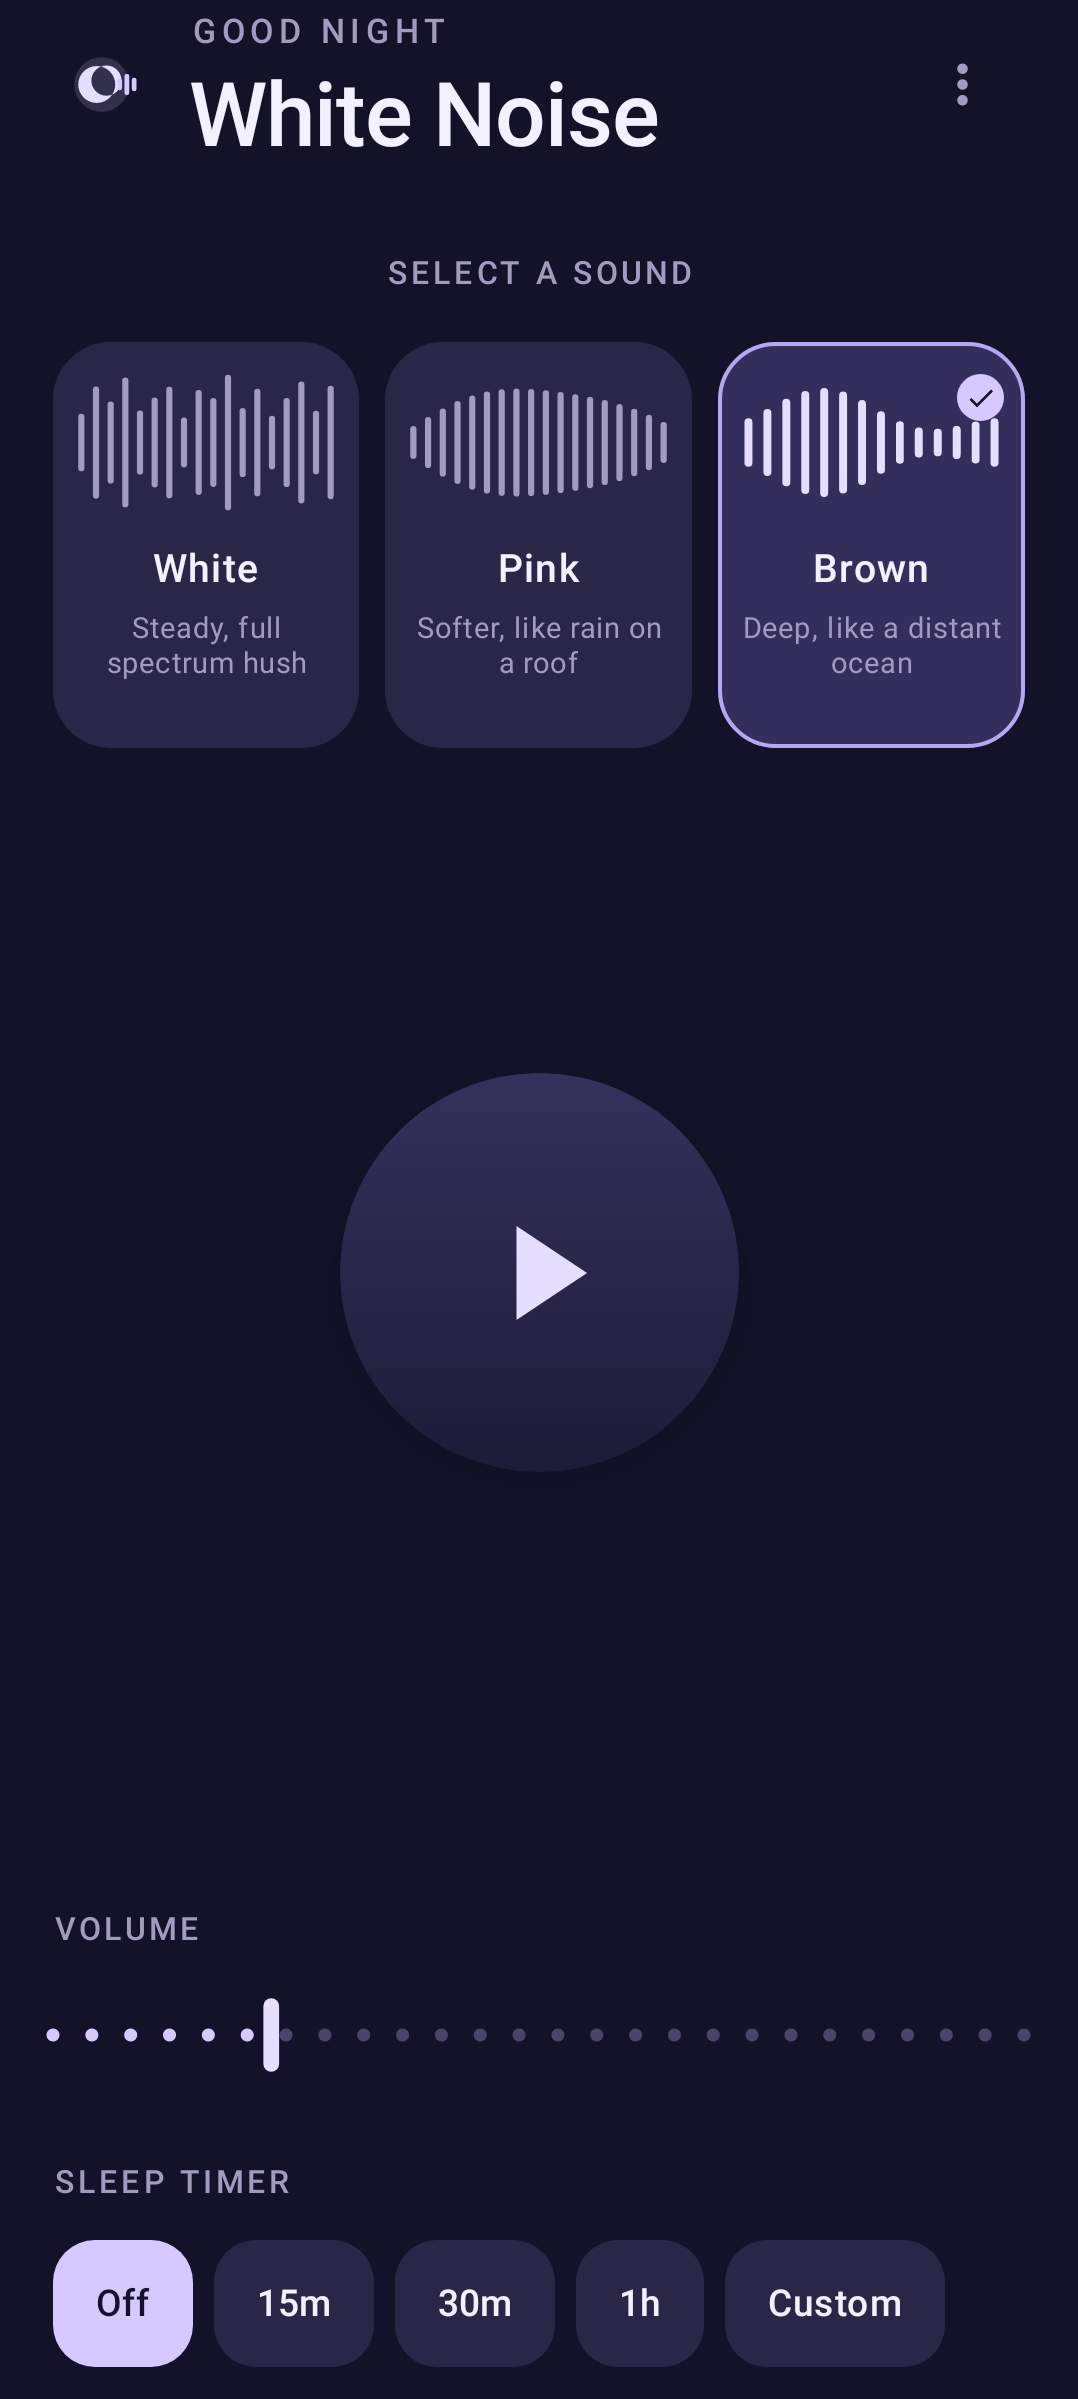
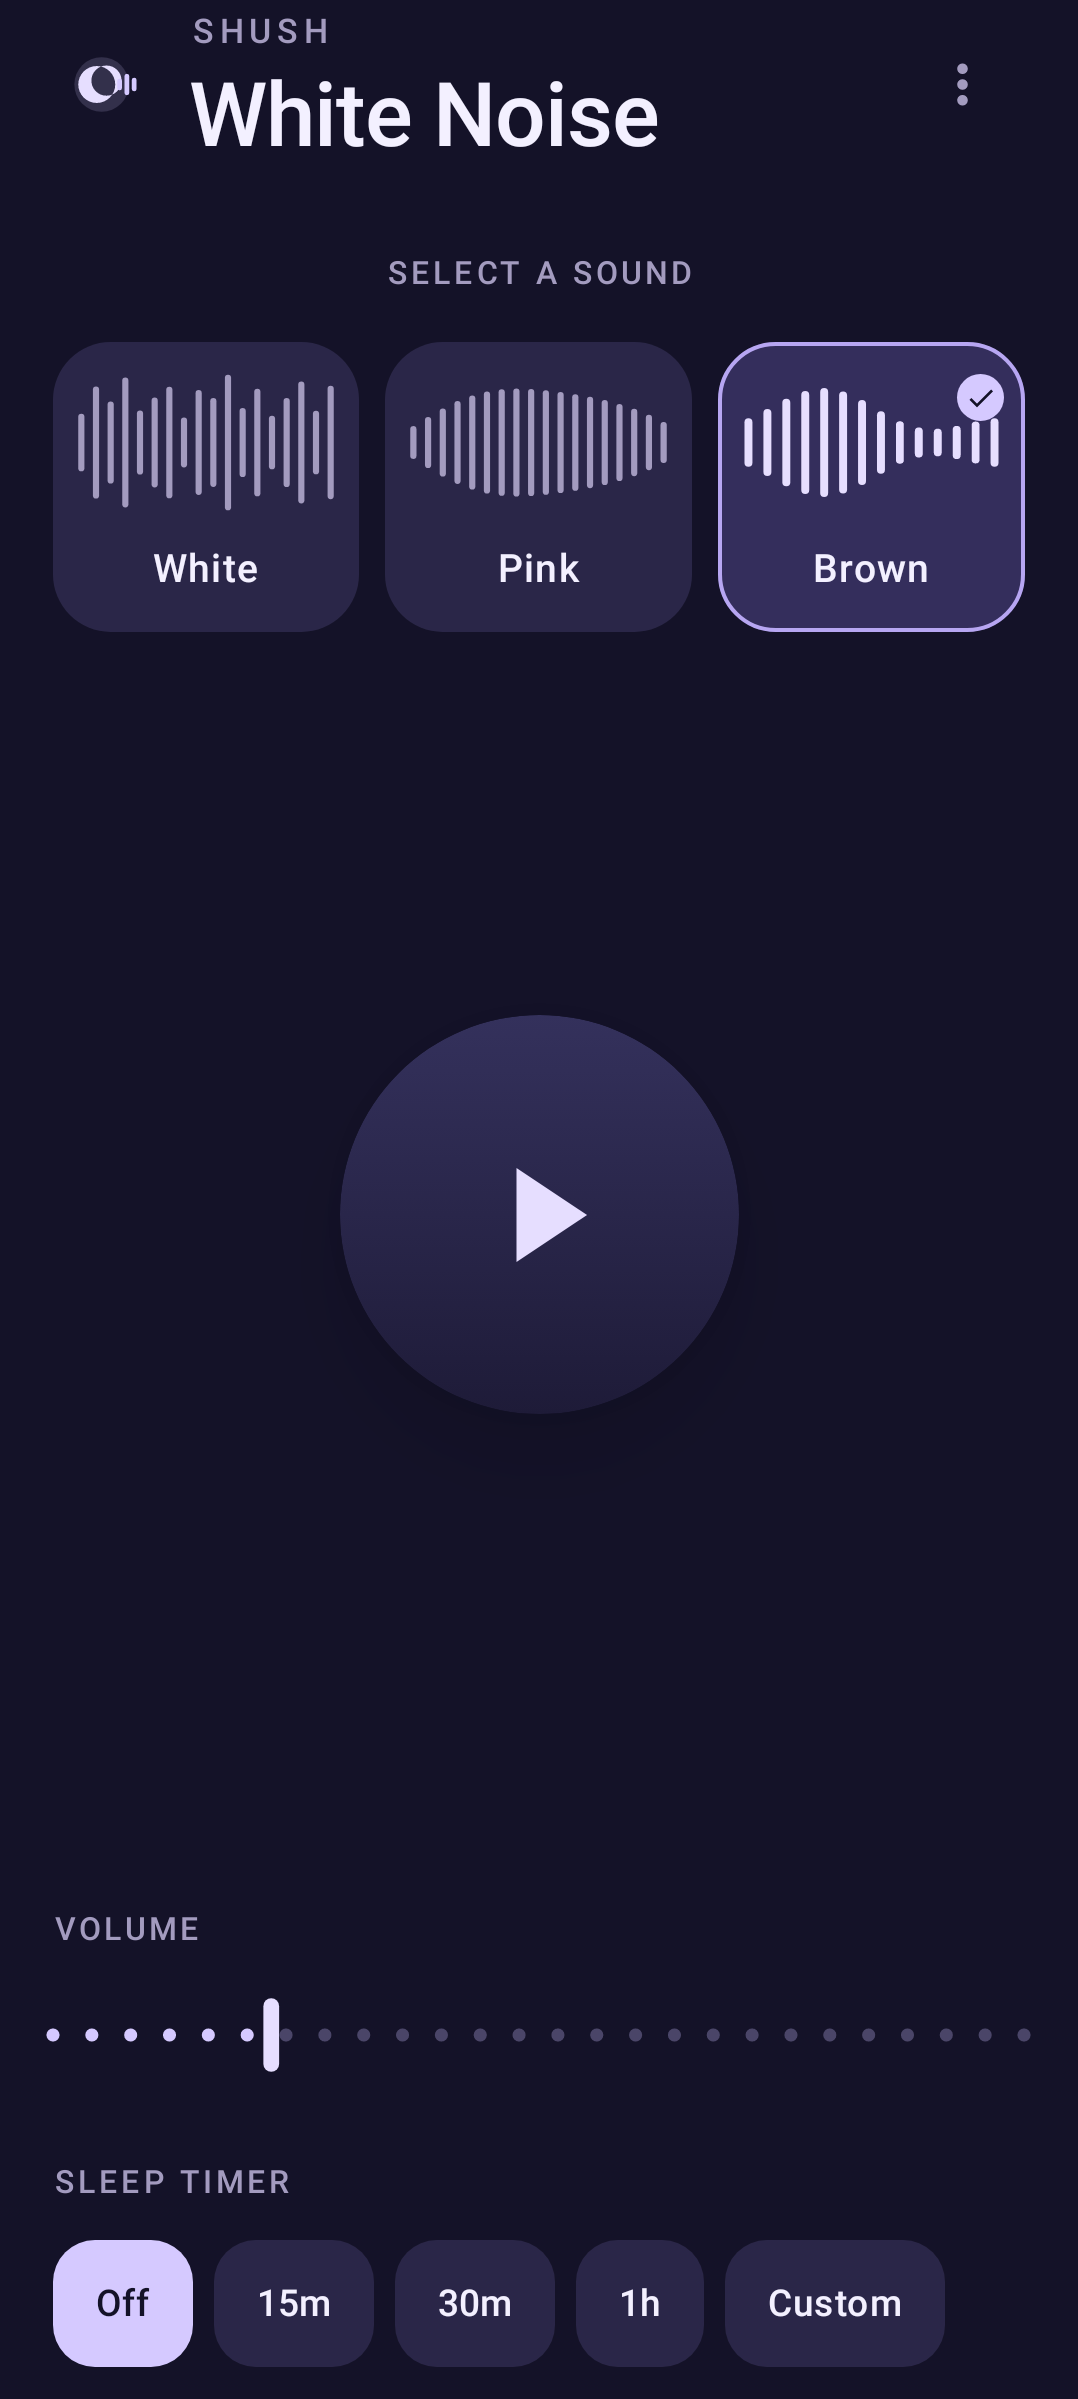
Raise the custom timer to 23h 59m and simplify the home screen.
The custom timer no longer shows preset chips. Sound cards show only the color name, and the home eyebrow reads SHUSH.

diff --git a/app/src/main/java/com/galynte/shush/ui/ShushOverlays.kt b/app/src/main/java/com/galynte/shush/ui/ShushOverlays.kt
@@ -52,8 +52,8 @@ fun CustomTimerOverlay(
     onSave: (Int) -> Unit,
 ) {
     val start = initialMinutes.coerceIn(0, MAX_CUSTOM_MINUTES)
-    var hours by remember { mutableIntStateOf((start / 60).coerceAtMost(8)) }
-    var minutes by remember { mutableIntStateOf(if (start / 60 >= 8) 0 else start % 60) }
+    var hours by remember { mutableIntStateOf(start / 60) }
+    var minutes by remember { mutableIntStateOf(start % 60) }
     val total = hours * 60 + minutes
     Box(Modifier.fillMaxSize()) {
         Scrim(onDismiss)
@@ -93,46 +93,18 @@ fun CustomTimerOverlay(
                     label = "Hours",
                     value = hours.toString(),
                     minusEnabled = hours > 0,
-                    plusEnabled = hours < 8,
+                    plusEnabled = hours < 23,
                     onMinus = { if (hours > 0) hours -= 1 },
-                    onPlus = {
-                        if (hours < 8) {
-                            hours += 1
-                            if (hours == 8) minutes = 0
-                        }
-                    },
+                    onPlus = { if (hours < 23) hours += 1 },
                 )
                 Stepper(
                     label = "Minutes",
                     value = minutes.toString().padStart(2, '0'),
-                    minusEnabled = minutes > 0 && hours < 8,
-                    plusEnabled = minutes < 55 && hours < 8,
-                    onMinus = { if (minutes >= 5) minutes -= 5 else minutes = 0 },
-                    onPlus = { if (minutes <= 50) minutes += 5 },
+                    minusEnabled = minutes > 0,
+                    plusEnabled = minutes < 59,
+                    onMinus = { if (minutes > 0) minutes -= 1 },
+                    onPlus = { if (minutes < 59) minutes += 1 },
                 )
-            }
-            Spacer(Modifier.height(18.dp))
-            Row(horizontalArrangement = Arrangement.spacedBy(8.dp)) {
-                listOf(45, 90, 120, 180).forEach { preset ->
-                    val selected = total == preset
-                    Box(
-                        modifier = Modifier
-                            .clip(RoundedCornerShape(12.dp))
-                            .background(if (selected) Lavender else Card)
-                            .clickable {
-                                hours = preset / 60
-                                minutes = preset % 60
-                            }
-                            .padding(horizontal = 12.dp, vertical = 8.dp),
-                    ) {
-                        Text(
-                            text = formatMinutes(preset),
-                            color = if (selected) Night else TextPrimary,
-                            fontSize = 13.sp,
-                            fontWeight = FontWeight.SemiBold,
-                        )
-                    }
-                }
             }
             Spacer(Modifier.height(22.dp))
             Row(horizontalArrangement = Arrangement.spacedBy(10.dp)) {

diff --git a/app/src/main/java/com/galynte/shush/ui/ShushScreen.kt b/app/src/main/java/com/galynte/shush/ui/ShushScreen.kt
@@ -176,7 +176,7 @@ private fun Header(onOpenAbout: () -> Unit) {
         Spacer(Modifier.width(12.dp))
         Column(Modifier.weight(1f)) {
             Text(
-                text = "GOOD NIGHT",
+                text = "SHUSH",
                 color = TextMuted,
                 fontSize = 13.sp,
                 fontWeight = FontWeight.Medium,
@@ -273,15 +273,6 @@ private fun SoundCard(
                 color = TextPrimary,
                 fontSize = 15.sp,
                 fontWeight = FontWeight.SemiBold,
-            )
-            Spacer(Modifier.height(4.dp))
-            Text(
-                text = color.description,
-                color = TextMuted,
-                fontSize = 11.sp,
-                lineHeight = 13.sp,
-                textAlign = TextAlign.Center,
-                minLines = 3,
             )
         }
         if (selected) {

diff --git a/app/src/main/java/com/galynte/shush/playback/Playback.kt b/app/src/main/java/com/galynte/shush/playback/Playback.kt
@@ -6,12 +6,12 @@ package com.galynte.shush.playback
 const val FADE_MS = 12_000L
 
 const val MIN_CUSTOM_MINUTES = 1
-const val MAX_CUSTOM_MINUTES = 8 * 60
+const val MAX_CUSTOM_MINUTES = 23 * 60 + 59
 
-enum class NoiseColor(val label: String, val description: String) {
-    WHITE("White", "Steady, full spectrum hush"),
-    PINK("Pink", "Softer, like rain on a roof"),
-    BROWN("Brown", "Deep, like a distant ocean"),
+enum class NoiseColor(val label: String) {
+    WHITE("White"),
+    PINK("Pink"),
+    BROWN("Brown"),
 }
 
 enum class TimerMode {

diff --git a/app/src/test/java/com/galynte/shush/playback/PlaybackReducerTest.kt b/app/src/test/java/com/galynte/shush/playback/PlaybackReducerTest.kt
@@ -54,7 +54,7 @@ class PlaybackReducerTest {
 
     @Test
     fun customMinutesAreClampedAndSelected() {
-        val state = PlaybackReducer.setCustomMinutes(ShushState(), 900, now)
+        val state = PlaybackReducer.setCustomMinutes(ShushState(), 24 * 60, now)
         assertEquals(TimerMode.CUSTOM, state.timerMode)
         assertEquals(MAX_CUSTOM_MINUTES, state.customMinutes)
         val low = PlaybackReducer.setCustomMinutes(ShushState(), 0, now)

diff --git a/README.md b/README.md
@@ -29,7 +29,7 @@ Install a debug build from source, or take the APK from a [GitHub release](https
 * **Three sounds.** White is a steady full-spectrum hush. Pink is softer, like rain on a roof. Brown is deep, like a distant ocean. Switching sounds does not stop playback.
 * **One play button.** Playback continues with the screen off. The notification can pause or stop it, and the channel itself is silent.
 * **Volume.** The slider is the app's own level, so a quiet night setting stays put when you come back.
-* **Sleep timer.** Off, 15 minutes, 30 minutes, 1 hour, or a custom length from 1 minute to 8 hours. Pausing freezes the countdown. The last 12 seconds fade to silence.
+* **Sleep timer.** Off, 15 minutes, 30 minutes, 1 hour, or a custom length from 1 minute to 23 hours 59 minutes. Pausing freezes the countdown. The last 12 seconds fade to silence.
 * **Lock screen.** A media session exposes play, pause, and stop, including from a connected headset.
 
 ## Brand

diff --git a/PUBLISHING.md b/PUBLISHING.md
@@ -53,7 +53,7 @@ Pick one sound and press play.
 • Pink — softer, like rain on a roof
 • Brown — deep, like a distant ocean
 
-Set a sleep timer for 15 minutes, 30 minutes, 1 hour, or any length up to 8 hours. When the timer ends, the sound fades out over 12 seconds instead of stopping short.
+Set a sleep timer for 15 minutes, 30 minutes, 1 hour, or any length up to 23 hours 59 minutes. When the timer ends, the sound fades out over 12 seconds instead of stopping short.
 
 Playback continues with the screen off. The sound is generated on the phone, so Shush works on a plane and does not ask for an account.
 
